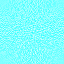
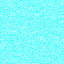
Update

diff --git a/Assets/Scripts/Utilities/TAlthogrim.cs b/Assets/Scripts/Utilities/TAlthogrim.cs
@@ -150,7 +150,7 @@ namespace TAlthogrim
     {
         private static readonly int[] IA_PerlinPermutation = { 151, 160, 137, 91, 90, 15, 131, 13, 201, 95, 96, 53, 194, 233, 7, 225, 140, 36, 103, 30, 69, 142, 8, 99, 37, 240, 21, 10, 23, 190, 6, 148, 247, 120, 234, 75, 0, 26, 197, 62, 94, 252, 219, 203, 117, 35, 11, 32, 57, 177, 33, 88, 237, 149, 56, 87, 174, 20, 125, 136, 171, 168, 68, 175, 74, 165, 71, 134, 139, 48, 27, 166, 77, 146, 158, 231, 83, 111, 229, 122, 60, 211, 133, 230, 220, 105, 92, 41, 55, 46, 245, 40, 244, 102, 143, 54, 65, 25, 63, 161, 1, 216, 80, 73, 209, 76, 132, 187, 208, 89, 18, 169, 200, 196, 135, 130, 116, 188, 159, 86, 164, 100, 109, 198, 173, 186, 3, 64, 52, 217, 226, 250, 124, 123, 5, 202, 38, 147, 118, 126, 255, 82, 85, 212, 207, 206, 59, 227, 47, 16, 58, 17, 182, 189, 28, 42, 223, 183, 170, 213, 119, 248, 152, 2, 44, 154, 163, 70, 221, 153, 101, 155, 167, 43, 172, 9, 129, 22, 39, 253, 19, 98, 108, 110, 79, 113, 224, 232, 178, 185, 112, 104, 218, 246, 97, 228, 251, 34, 242, 193, 238, 210, 144, 12, 191, 179, 162, 241, 81, 51, 145, 235, 249, 14, 239, 107, 49, 192, 214, 31, 181, 199, 106, 157, 184, 84, 204, 176, 115, 121, 50, 45, 127, 4, 150, 254, 138, 236, 205, 93, 222, 114, 67, 29, 24, 72, 243, 141, 128, 195, 78, 66, 215, 61, 156, 180 };
         private static readonly int[] IA_PerlinPremutationRepeat = IA_PerlinPermutation.Add(IA_PerlinPermutation);
-        static int inc(int src)=>(src+1)%255;
+        static int Inc(int src)=>(src+1)%255;
         static double Lerp(double a, double b, double x) => a + x * (b - a);
         public static double Fade(double t) => t * t * t * (t * (t * 6 - 15) + 10);
         public static double Gradient(int hash,double x,double y,double z)
@@ -191,22 +191,22 @@ namespace TAlthogrim
             int[] p = IA_PerlinPremutationRepeat;
             int aaa, aba, aab, abb, baa, bba, bab, bbb;
             aaa = p[p[p[xi] + yi] + zi];
-            aba = p[p[p[xi] + inc(yi)] + zi];
-            aab = p[p[p[xi] + yi] + inc(zi)];
-            abb = p[p[p[xi] + inc(yi)] + inc(zi)];
-            baa = p[p[p[inc(xi)] + yi] + zi];
-            bba = p[p[p[inc(xi)] + inc(yi)] + zi];
-            bab = p[p[p[inc(xi)] + yi] + inc(zi)];
-            bbb = p[p[p[inc(xi)] + inc(yi)] + inc(zi)];
+            aba = p[p[p[xi] + Inc(yi)] + zi];
+            aab = p[p[p[xi] + yi] + Inc(zi)];
+            abb = p[p[p[xi] + Inc(yi)] + Inc(zi)];
+            baa = p[p[p[Inc(xi)] + yi] + zi];
+            bba = p[p[p[Inc(xi)] + Inc(yi)] + zi];
+            bab = p[p[p[Inc(xi)] + yi] + Inc(zi)];
+            bbb = p[p[p[Inc(xi)] + Inc(yi)] + Inc(zi)];
 
-            double temp1, temp2, temp3, temp4;
-            temp1 = Lerp(Gradient(aaa, xf, yf, zf), Gradient(baa, xf - 1, yf, zf), u);
-            temp2 = Lerp(Gradient(aba,xf,yf-1,zf),Gradient(bba,xf-1,yf-1,zf),u);
-            temp3 = Lerp(temp1,temp2,v);
-            temp1 = Lerp(Gradient(aab, xf, yf, zf-1), Gradient(bab, xf - 1, yf ,zf - 1), u);
-            temp2 = Lerp(Gradient(abb, xf, yf - 1, zf - 1), Gradient(bbb, xf - 1, yf - 1, zf - 1),u);
-            temp4 = Lerp(temp1, temp2, v);
-            return (Lerp(temp3, temp4, w) + 1) / 2;
+            double x1, x2, y1, y2;
+            x1 = Lerp(Gradient(aaa, xf, yf, zf), Gradient(baa, xf - 1, yf, zf), u);
+            x2 = Lerp(Gradient(aba,xf,yf-1,zf),Gradient(bba,xf-1,yf-1,zf),u);
+            y1 = Lerp(x1,x2,v);
+            x1 = Lerp(Gradient(aab, xf, yf, zf-1), Gradient(bab, xf - 1, yf ,zf - 1), u);
+            x2 = Lerp(Gradient(abb, xf, yf - 1, zf - 1), Gradient(bbb, xf - 1, yf - 1, zf - 1),u);
+            y2 = Lerp(x1, x2, v);
+            return (Lerp(y1, y2, w) + 1) / 2;
         }
 
         public static double OctavePerlin(double x,double y,double z,int octaves,double persistence)

diff --git a/Assets/Scripts/Editor/ENoiseGeneratorWindow.cs b/Assets/Scripts/Editor/ENoiseGeneratorWindow.cs
@@ -7,9 +7,10 @@ namespace TEditor
 {
     public class ENoiseGeneratorWindow : EditorWindow
     {
-        const int C_MinSizePower = 4;
+        const int C_MinSizePower = 3;
         const int C_MaxSizePower = 10;
         int m_SizePower=5;
+        float m_Scale = 1;
         Texture2D m_Texture;
 
         public static class EditorGUIHorizontalScope
@@ -46,16 +47,18 @@ namespace TEditor
             m_SizePower = EditorGUI.IntSlider(EditorGUIHorizontalScope.NextRect( 5, 120), m_SizePower, C_MinSizePower, C_MaxSizePower);
             int size = Mathf.RoundToInt(Mathf.Pow(2, m_SizePower));
             EditorGUI.LabelField(EditorGUIHorizontalScope.NextRect(5,40), size.ToString());
+            EditorGUIHorizontalScope.NextLine(2,20);
+            EditorGUI.LabelField(EditorGUIHorizontalScope.NextRect(0, 60), "Scale:", m_TitleStyle);
+            m_Scale = EditorGUI.Slider(EditorGUIHorizontalScope.NextRect(5, 120), m_Scale,1f,10f);
             if(!m_Texture||EditorGUI.EndChangeCheck())
             {
                 double sizeD = size;
-                m_Texture = new Texture2D(size, size,TextureFormat.R8,true);
+                Color[] colors = new Color[size * size];
                 for (int i = 0; i < size; i++)
                     for (int j = 0; j < size; j++)
-                    {
-                        float noise = (float)TPerlinNoise.Perlin(i / sizeD + i, j / sizeD + j ,0);
-                        m_Texture.SetPixel(i, j, new Color(noise, 0, 0, 1));
-                    }
+                        colors[i * size + j] = new Color((float)TPerlinNoise.Perlin(.5d+j / sizeD*255* m_Scale,.5d+i / sizeD*255* m_Scale, 0),0,0,0);
+                m_Texture = new Texture2D(size, size, TextureFormat.R8, true);
+                m_Texture.SetPixels(colors);
                 m_Texture.Apply();
             }
             EditorGUIHorizontalScope.NextLine(2,256);
